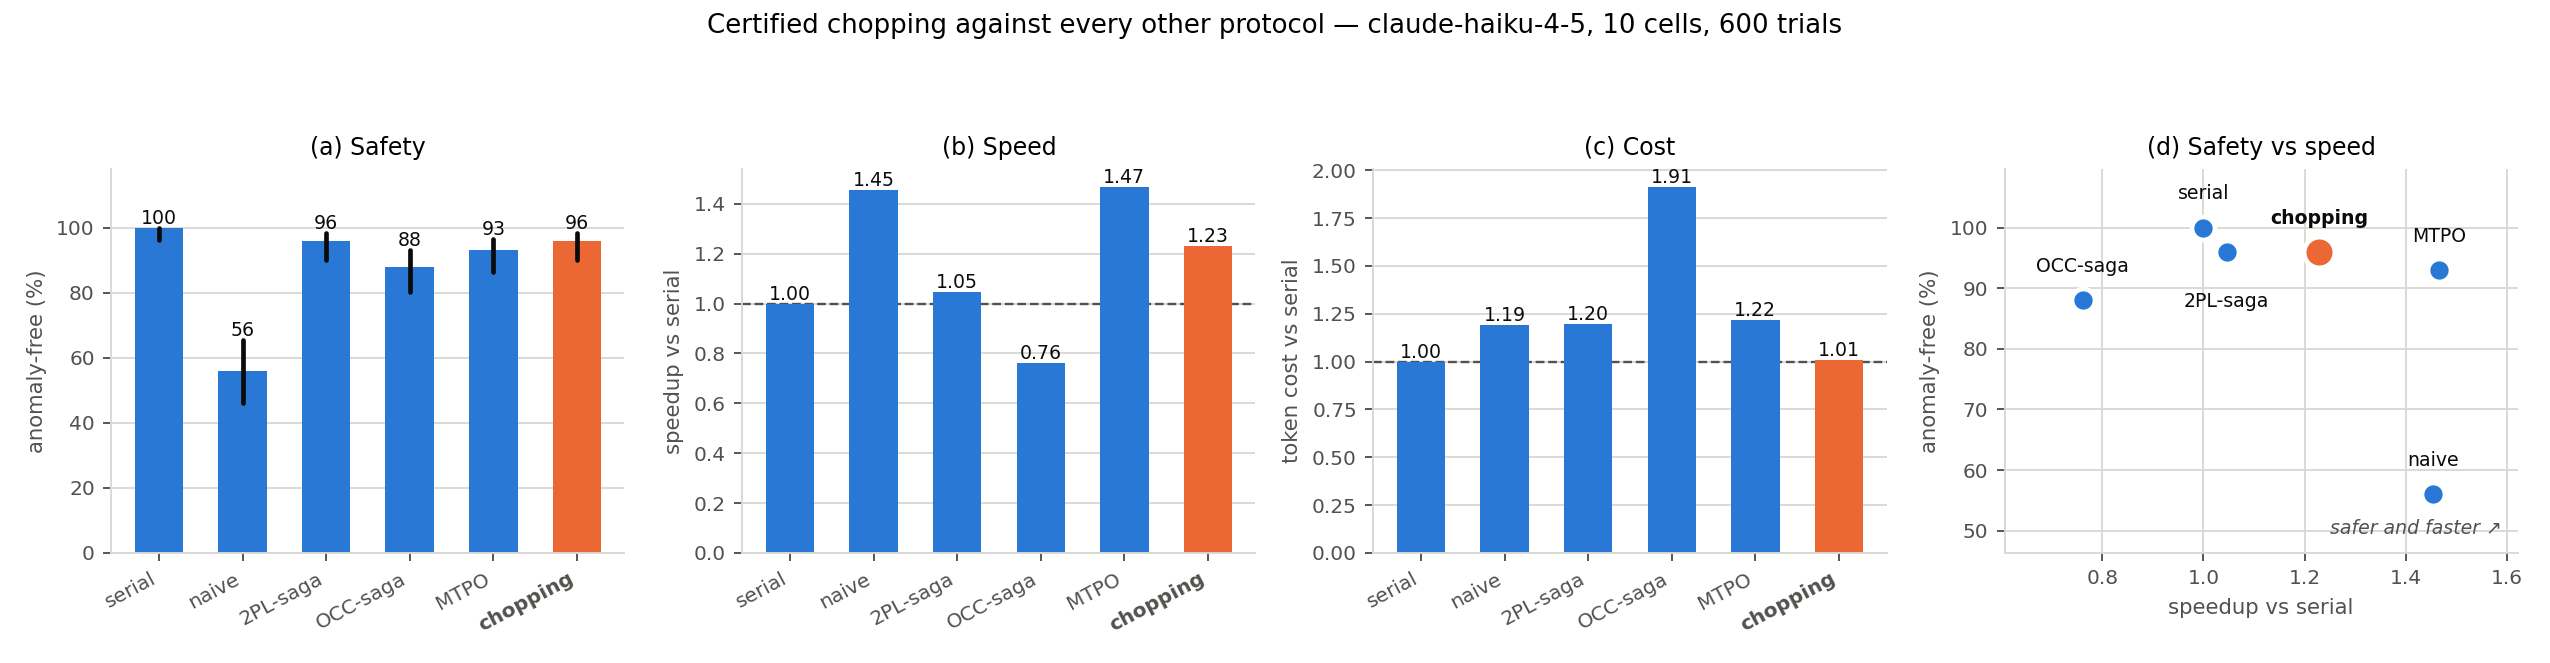
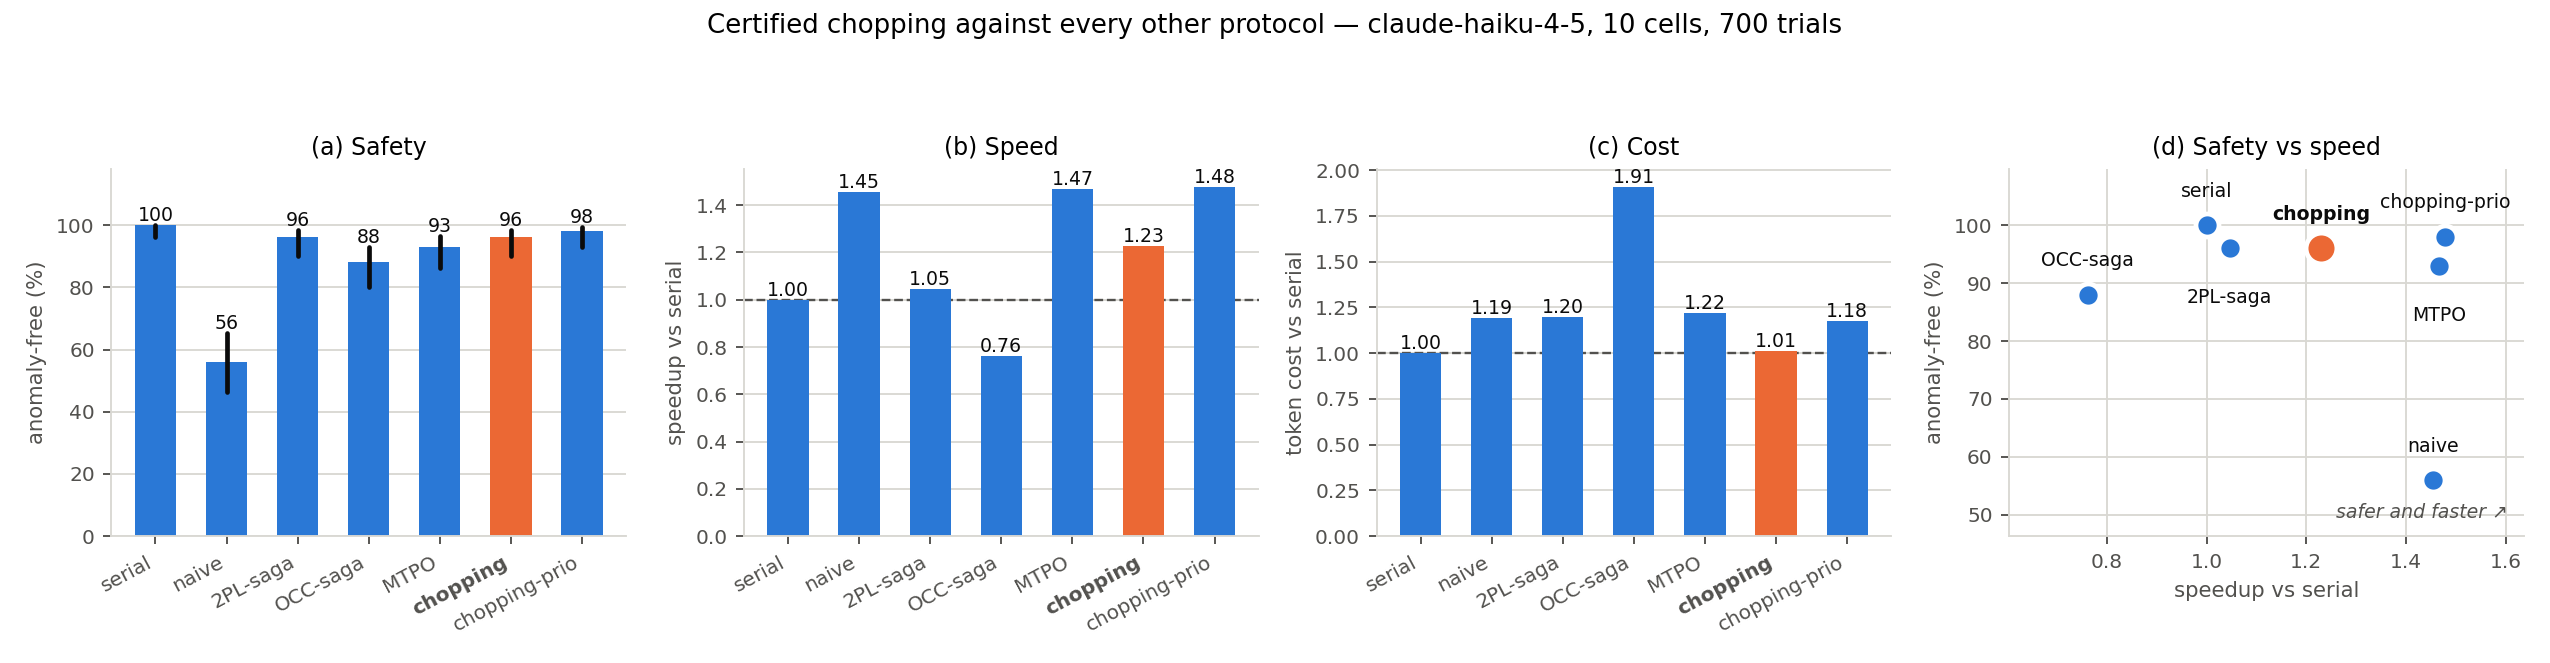
fix(figures): regenerate with chopping-prio, and two rendering bugs
The haiku figure set predated chopping-prio, so the protocol was missing
from every panel. Regenerated both model directories.

* make_chopping_figures gated cell selection on all of PROTOCOL_ORDER and
  divided by zero on a run that lacks a protocol -- the same bug already
  fixed in the other three scripts. `present` is derived in figure_main
  rather than threaded through from load(), so both apply the same rule.
* Panel (d)'s label placement only checked points already drawn, and the
  label goes above by default, so MTPO's label landed on top of
  chopping-prio, whose point is plotted later in the loop. It now checks
  every other point and drops the label below when something sits in the
  space above.

diff --git a/scripts/make_chopping_figures.py b/scripts/make_chopping_figures.py
@@ -77,8 +77,11 @@ def load(path):
     by = defaultdict(list)
     for r in runs:
         by[(r["cell"], r["protocol"])].append(r)
+    # Only the protocols this run recorded: gating on all of PROTOCOL_ORDER
+    # drops every cell from a run made before a protocol existed.
+    present = [p for p in PROTOCOL_ORDER if any(k[1] == p for k in by)]
     have = [c for c in CELLS
-            if all(len(by[(c, p)]) >= 5 for p in PROTOCOL_ORDER)]
+            if all(len(by[(c, p)]) >= 5 for p in present)]
     clean = [c for c in have if all(free(r) for r in by[(c, "serial")])]
     return runs, by, have, clean, free
 
@@ -110,8 +113,11 @@ def bars(ax, vals, labels, title, ylabel, errs=None, fmt="{:.0f}",
 
 
 def figure_main(by, clean, free, model, outdir):
+    # Derived here rather than passed in: the same rule as in load(), so a
+    # run missing a protocol gets a shorter chart instead of a zero divide.
+    present = [p for p in PROTOCOL_ORDER if any(k[1] == p for k in by)]
     corr, errs, speed, cost = [], [], [], []
-    for p in PROTOCOL_ORDER:
+    for p in present:
         rs = [r for c in clean for r in by[(c, p)]]
         k, n = sum(1 for r in rs if free(r)), len(rs)
         _, lo, hi = wilson(k, n)
@@ -127,30 +133,35 @@ def figure_main(by, clean, free, model, outdir):
                               for x in by[(c, "serial")]) for c in clean))
 
     fig, axes = plt.subplots(1, 4, figsize=(15, 3.9))
-    bars(axes[0], corr, PROTOCOL_ORDER, "(a) Safety", "anomaly-free (%)",
+    bars(axes[0], corr, present, "(a) Safety", "anomaly-free (%)",
          errs=errs)
     axes[0].set_ylim(0, 118)
-    bars(axes[1], speed, PROTOCOL_ORDER, "(b) Speed", "speedup vs serial",
+    bars(axes[1], speed, present, "(b) Speed", "speedup vs serial",
          fmt="{:.2f}", hline=1.0)
-    bars(axes[2], cost, PROTOCOL_ORDER, "(c) Cost", "token cost vs serial",
+    bars(axes[2], cost, present, "(c) Cost", "token cost vs serial",
          fmt="{:.2f}", hline=1.0)
 
     ax = axes[3]
-    placed = []
     xr = (max(speed) - min(speed)) or 1.0
     yr = (max(corr) - min(corr)) or 1.0
-    for i, p in enumerate(PROTOCOL_ORDER):
+    for i, p in enumerate(present):
         subj = p == SUBJECT
         ax.scatter(speed[i], corr[i], s=170 if subj else 95,
                    color=ORANGE if subj else BLUE, edgecolor="white",
                    linewidth=2, zorder=3)
-        below = any(abs(speed[i] - px) / xr < 0.18
-                    and abs(corr[i] - py) / yr < 0.18 for px, py in placed)
+        # Look at every other point, not just the ones already drawn: the
+        # label goes above by default, so what matters is whether some point
+        # sits in that space -- and the one that does may come later in the
+        # loop. Checking only `placed` put MTPO's label on top of
+        # chopping-prio, whose point had not been plotted yet.
+        above = any(j != i
+                    and abs(speed[i] - speed[j]) / xr < 0.18
+                    and 0 <= (corr[j] - corr[i]) / yr < 0.22
+                    for j in range(len(present)))
         ax.annotate(p, (speed[i], corr[i]), textcoords="offset points",
-                    xytext=(0, -17 if below else 12), ha="center",
-                    fontsize=8, color=INK, va="top" if below else "baseline",
+                    xytext=(0, -17 if above else 12), ha="center",
+                    fontsize=8, color=INK, va="top" if above else "baseline",
                     fontweight="bold" if subj else "normal")
-        placed.append((speed[i], corr[i]))
     ax.set_xlabel("speedup vs serial", fontsize=9, color=MUTED)
     ax.set_ylabel("anomaly-free (%)", fontsize=9, color=MUTED)
     ax.set_title("(d) Safety vs speed", fontsize=10)
@@ -161,7 +172,7 @@ def figure_main(by, clean, free, model, outdir):
     tidy(ax)
     ax.grid(True, color=GRID, lw=0.8, zorder=0)
 
-    n = sum(len(by[(c, p)]) for c in clean for p in PROTOCOL_ORDER)
+    n = sum(len(by[(c, p)]) for c in clean for p in present)
     fig.suptitle(f"Certified chopping against every other protocol — "
                  f"{model}, {len(clean)} cells, {n} trials", fontsize=11)
     fig.tight_layout(rect=(0, 0, 1, 0.91))
